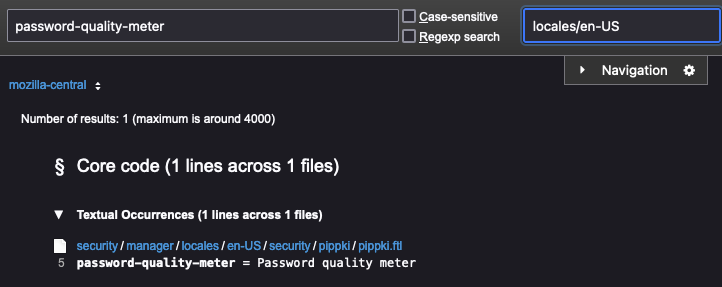
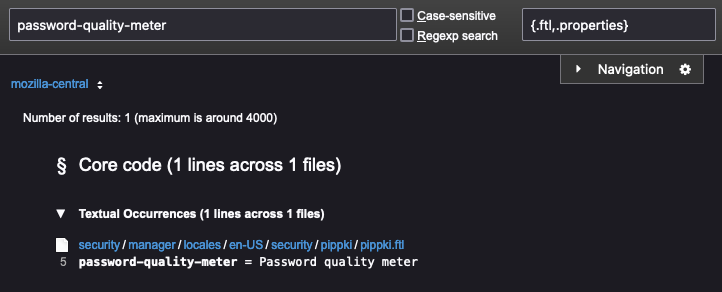
Reflect review comments

diff --git a/src/tools/mercurial/tracking_back_string_to_bug.md b/src/tools/mercurial/tracking_back_string_to_bug.md
@@ -14,7 +14,9 @@ The results may look something like this:
 
 ![Searchfox](../../assets/images/mercurial/searchfox.png)
 
-We can further refine results to only localization files by using `locales/en-US` in the `Path filter` field in the top right to limit search results to localization files.
+You can further refine results to only localization files by using specific localization file extensions in the `Path filter` field in the top right:
+* For Firefox: limit the search to `.ftl` or `.properties` files. You can find information on the file from its [CONTEXT](../pontoon/ui.md#context). Or you can use `{.ftl,.properties}` to only show files with those extensions.
+* For Android: limit the search to `.xml` files.
 
 ![Searchfox](../../assets/images/mercurial/searchfox-path.png)
 
@@ -22,13 +24,13 @@ Clicking on the string will open the file in Searchfox and highlight the string.
 
 ## Find the bug
 
-Searchfox shows details on the revision that each line of code was introduced to the file, represented on the left hand sign as a bar with alternating shades of gray. Hovering over the bar next to the highlighted line containing your string will show you the revision details. The first line of the revision details contains a bug reference, a number represented as a link. Clicking the link will take you to Bugzilla where you can then check things like dependencies and comments.
+Searchfox shows details on the revision in which each line of code was introduced to the file, represented on the left hand sign as a bar with alternating shades of gray. Hovering over the bar next to the highlighted line containing your string will show you the revision details. The first line of the revision details contains a bug reference, a number represented as a link. Clicking the link will take you to Bugzilla where you can then check things like dependencies and comments.
 
 ![Searchfox](../../assets/images/mercurial/searchfox-revision.png)
 
 ### Examining the changeset in Mercurial
 
-You can also access the changeset in Mercurial. To view that, click `full diff` on the third line that says `Show annoated diff or full diff`.
+You can also access the changeset in Mercurial. To view that, click `full diff` on the third line that says `Show annotated diff or full diff`.
 
 This will show the full commit message and all the changes made as part of the bug.
 

diff --git a/src/tools/pontoon/ui.md b/src/tools/pontoon/ui.md
@@ -78,7 +78,7 @@ In the same area, the `REQUEST CONTEXT or REPORT ISSUE` button can be used to re
 
 #### Context
 
-Sometimes you may want to investigate more context about a particular string through an external resource such as a [Version Control System](glossary.md#version-control-system). The `CONTEXT` information provided underneath the source string shows the identifier, file, and project for the string - allowing you to find the string within the codebase of the project. For example, for some Mozilla projects these can be used to [track strings to bugs](../mercurial/tracking_back_string_to_bug.md).
+Sometimes you may want to investigate more context about a particular string through an external resource such as a [Version Control System](glossary.md#version-control-system). The `CONTEXT` information provided underneath the source string shows the identifier, file, and project for the string — allowing you to find the string within the codebase of the project. For example, for some Mozilla projects these can be used to [track strings to bugs](../mercurial/tracking_back_string_to_bug.md).
 
 ![Context](../../assets/images/pontoon/ui/context.png)
 
